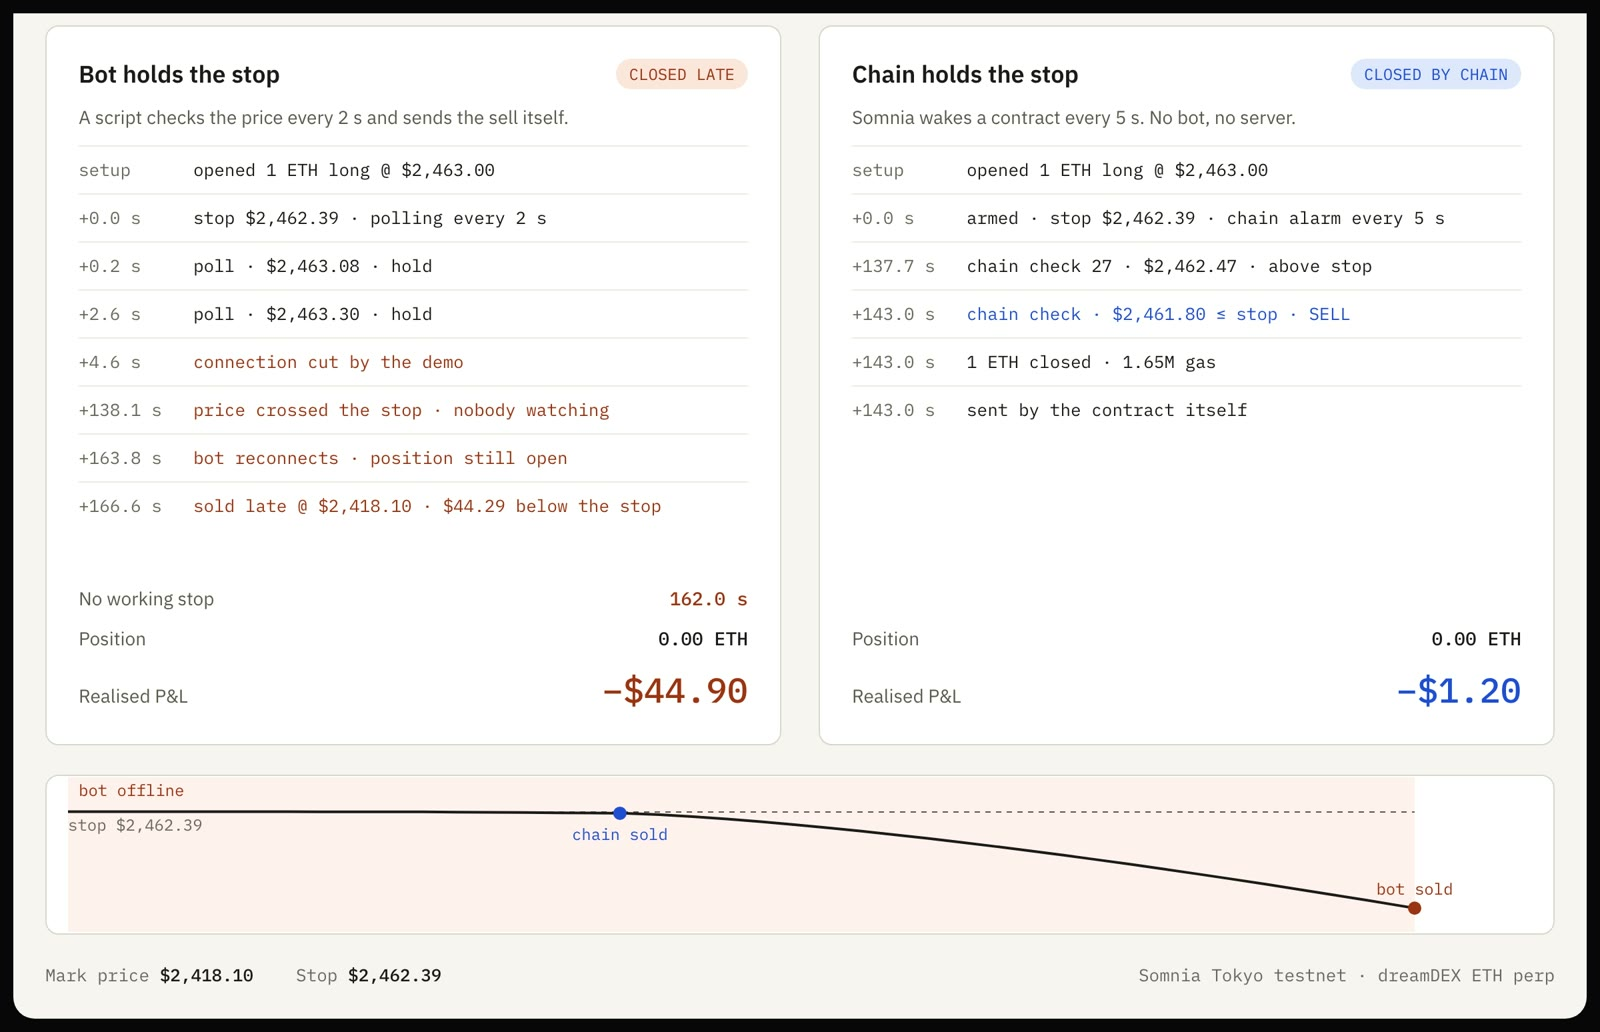
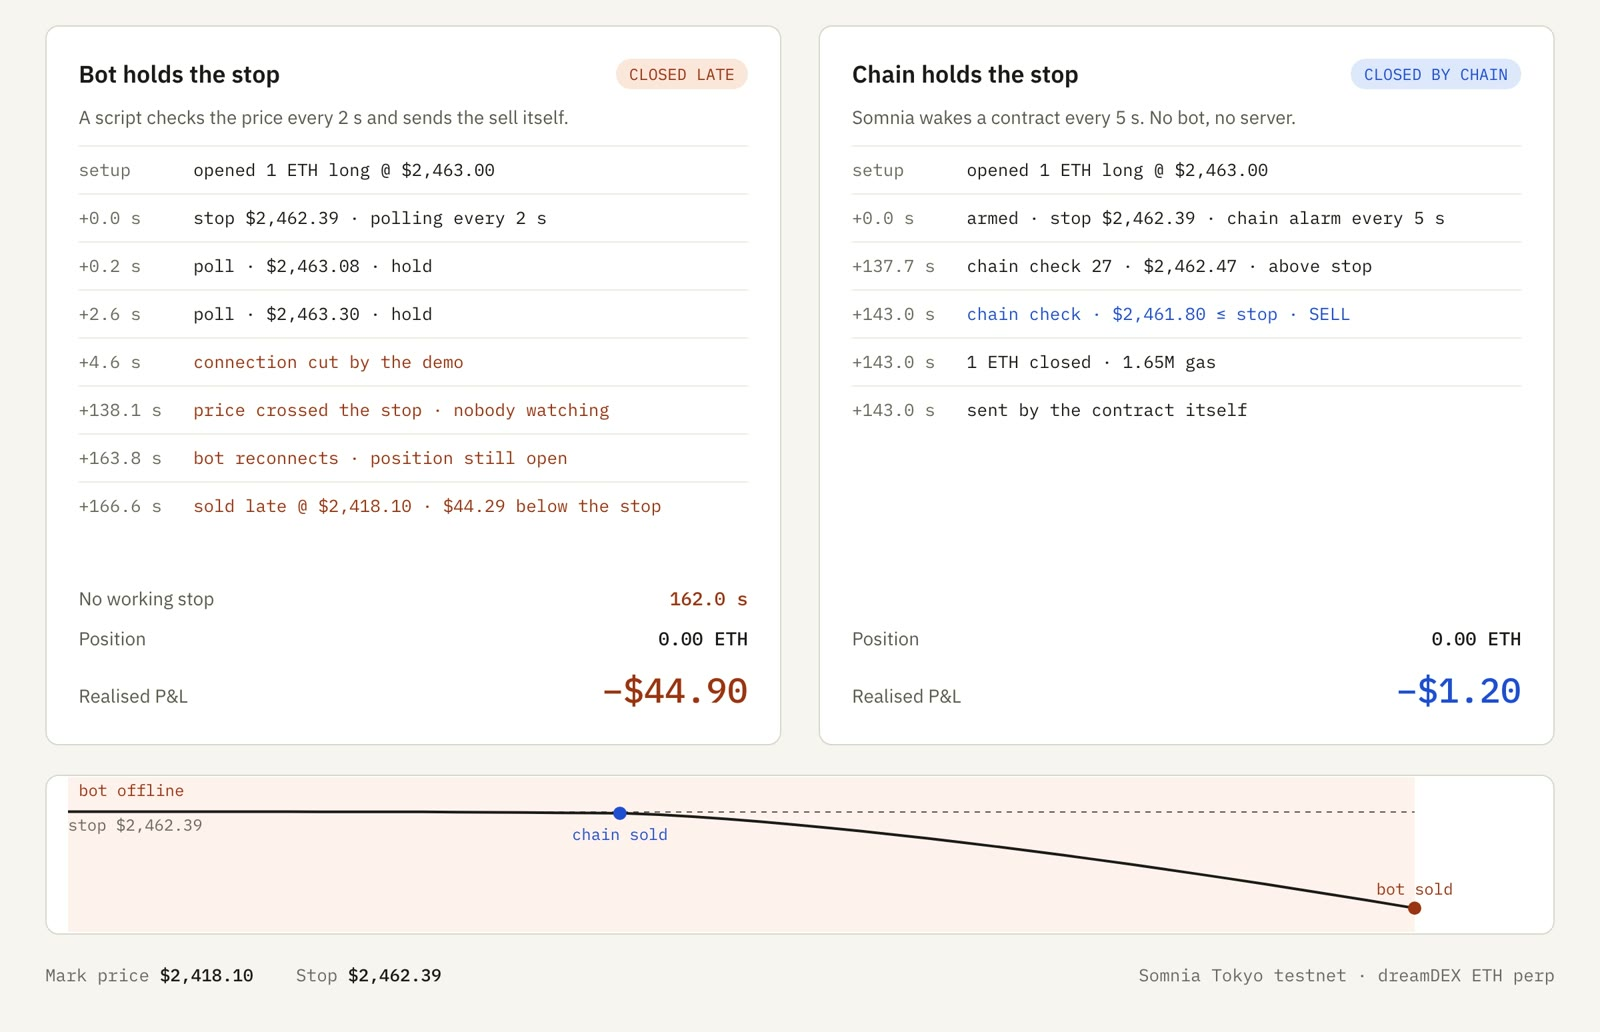
style(site): use the board's theme for the whole article
Paper and ink with IBM Plex, rust for the bot and blue for the chain,
the same tokens as the board and the film. The share card, favicon and
hero image background follow the same theme.

Changed region(s): [[0.0, 0.0, 1.0, 1.0]]

diff --git a/site/og.html b/site/og.html
@@ -3,25 +3,22 @@
 <head>
 <meta charset="utf-8">
 <title>og card source</title>
+<link rel="stylesheet" href="https://fonts.googleapis.com/css2?family=IBM+Plex+Sans:wght@400;500;600&family=IBM+Plex+Mono:wght@400;500&display=swap">
 <style>
-  html,body{margin:0;background:#070707}
-  .card{width:1200px;height:630px;position:relative;overflow:hidden;background:#070707;color:#e8e8ec;
-        font-family:-apple-system,BlinkMacSystemFont,"Segoe UI",Roboto,Helvetica,Arial,sans-serif;padding:60px 68px;box-sizing:border-box}
-  .card::before{content:"";position:absolute;inset:0;background:
-     radial-gradient(620px 320px at 88% -5%, rgba(110,242,158,.14), transparent 60%),
-     repeating-linear-gradient(0deg, rgba(255,255,255,.022) 0 1px, transparent 1px 32px),
-     repeating-linear-gradient(90deg, rgba(255,255,255,.022) 0 1px, transparent 1px 32px)}
+  html,body{margin:0;background:#f6f5f1}
+  .card{width:1200px;height:630px;position:relative;overflow:hidden;background:#f6f5f1;color:#1b1b18;
+        font-family:'IBM Plex Sans',system-ui,sans-serif;padding:60px 68px;box-sizing:border-box}
   .in{position:relative;height:100%;display:flex;flex-direction:column;justify-content:space-between}
-  .eyebrow{font-size:19px;color:#9a9aa6;letter-spacing:.05em;text-transform:uppercase}
-  h1{font-size:58px;line-height:1.08;margin:16px 0 0;letter-spacing:-.015em;max-width:1010px}
-  h1 em{font-style:normal;color:#6ef29e}
+  .eyebrow{font-family:'IBM Plex Mono',monospace;font-size:18px;color:#6b685e;letter-spacing:.05em;text-transform:uppercase}
+  h1{font-size:58px;font-weight:600;line-height:1.08;margin:16px 0 0;letter-spacing:-.015em;max-width:1010px}
+  h1 em{font-style:normal;color:#1f4fd1}
   .row{display:flex;gap:14px}
-  .stat{flex:1;background:#0d0d12;border:1px solid #232329;border-radius:12px;padding:16px 20px}
-  .stat b{display:block;font-family:ui-monospace,SFMono-Regular,Menlo,Consolas,monospace;font-size:34px;margin-bottom:4px}
-  .stat.g b{color:#6ef29e} .stat.r b{color:#ff8f8f}
-  .stat span{color:#9a9aa6;font-size:16px}
-  .foot{display:flex;justify-content:space-between;align-items:flex-end;color:#6b6b76;font-size:20px}
-  .foot b{color:#8b8bff;font-weight:600}
+  .stat{flex:1;background:#fff;border:1px solid #d9d6cc;border-radius:10px;padding:16px 20px}
+  .stat b{display:block;font-family:'IBM Plex Mono',monospace;font-weight:500;font-size:34px;margin-bottom:4px}
+  .stat.chain b{color:#1f4fd1} .stat.bot b{color:#9a3412}
+  .stat span{color:#5c594f;font-size:16px}
+  .foot{display:flex;justify-content:space-between;align-items:flex-end;color:#6b685e;font-size:20px;border-top:1px solid #d9d6cc;padding-top:18px}
+  .foot b{color:#1b1b18;font-weight:600}
 </style>
 </head>
 <body>
@@ -31,9 +28,9 @@
     <h1>My bot held the stop-loss and went offline. <em>The chain sold by itself.</em></h1>
   </div>
   <div class="row">
-    <div class="stat r"><b>162 s</b><span>the bot's stop was down</span></div>
-    <div class="stat g"><b>5 s</b><span>the chain checks the stop</span></div>
-    <div class="stat g"><b>0</b><span>signatures on the chain's sale</span></div>
+    <div class="stat bot"><b>162 s</b><span>the bot's stop was down</span></div>
+    <div class="stat chain"><b>5 s</b><span>the chain checks the stop</span></div>
+    <div class="stat chain"><b>0</b><span>signatures on the chain's sale</span></div>
   </div>
   <div class="foot"><span>chain-stop.ironyaditya.xyz</span><span><b>@0xironyAditya</b></span></div>
 </div></div>

diff --git a/site/index.html b/site/index.html
@@ -7,7 +7,7 @@
 <meta name="description" content="Same long, same stop, two ways: a bot that polls the price, and a contract Somnia wakes every 5 seconds. I cut the bot's connection. The chain sold on its own; the bot had no working stop for 162 seconds.">
 <meta name="author" content="Aditya Srivastava (@0xironyAditya)">
 <meta name="robots" content="index, follow">
-<meta name="theme-color" content="#070707">
+<meta name="theme-color" content="#f6f5f1">
 <link rel="canonical" href="https://chain-stop.ironyaditya.xyz/">
 <link rel="icon" href="/favicon.svg" type="image/svg+xml">
 
@@ -46,15 +46,18 @@
   "mainEntityOfPage": "https://chain-stop.ironyaditya.xyz/"
 }
 </script>
+<link rel="preconnect" href="https://fonts.googleapis.com">
+<link rel="stylesheet" href="https://fonts.googleapis.com/css2?family=IBM+Plex+Sans:wght@400;500;600&family=IBM+Plex+Mono:wght@400;500&display=swap">
 <style>
+  /* The board's theme ("Incident log"): paper and ink, rust for the bot, blue for the chain. */
   :root{
-    --bg:#070707; --panel:#0d0d12; --line:#232329; --text:#e8e8ec; --muted:#9a9aa6; --dim:#6b6b76;
-    --good:#6ef29e; --bad:#ff8f8f; --accent:#8b8bff; --warn:#cc5a3a;
-    --mono:ui-monospace,SFMono-Regular,Menlo,Consolas,monospace;
+    --bg:#f6f5f1; --panel:#ffffff; --line:#d9d6cc; --text:#1b1b18; --muted:#5c594f; --dim:#6b685e;
+    --good:#1f4fd1; --good-bg:#dde7fb; --bad:#9a3412; --bad-bg:#fbe6dc; --accent:#1f4fd1; --warn:#9a3412;
+    --mono:'IBM Plex Mono',ui-monospace,SFMono-Regular,Menlo,monospace;
   }
   *{box-sizing:border-box}
-  html{color-scheme:dark}
-  body{margin:0;background:var(--bg);color:var(--text);font:15px/1.55 -apple-system,BlinkMacSystemFont,"Segoe UI",Roboto,Helvetica,Arial,sans-serif;padding:0 16px env(safe-area-inset-bottom,0)}
+  html{color-scheme:light}
+  body{margin:0;background:var(--bg);color:var(--text);font:15px/1.6 'IBM Plex Sans',system-ui,sans-serif;-webkit-font-smoothing:antialiased;padding:0 16px env(safe-area-inset-bottom,0)}
   main{max-width:920px;margin:0 auto;padding:48px 0 80px}
   h1{font-size:clamp(26px,4.5vw,38px);line-height:1.15;margin:0 0 10px;letter-spacing:-.01em}
   h1 em{font-style:normal;color:var(--good)}
@@ -74,10 +77,10 @@
   th{color:var(--muted);font-weight:600;font-size:12px;text-transform:uppercase;letter-spacing:.05em}
   tr:last-child td{border-bottom:0}
   td.n,th.n{text-align:right;font-family:var(--mono)}
-  tr.somnia td{background:rgba(110,242,158,.06)}
+  tr.somnia td{background:var(--good-bg)}
   tr.somnia td:first-child{color:var(--good);font-weight:600}
   .g{color:var(--good);font-weight:600} .w{color:var(--warn)} .b{color:var(--bad)} .m{color:var(--muted)}
-  code{font-family:var(--mono);font-size:.92em;background:#17171d;padding:1px 5px;border-radius:4px;overflow-wrap:anywhere}
+  code{font-family:var(--mono);font-size:.92em;background:#ece9e0;padding:1px 5px;border-radius:4px;overflow-wrap:anywhere}
   pre{font-family:var(--mono);font-size:13px;background:var(--panel);border:1px solid var(--line);border-radius:8px;padding:14px 16px;overflow-x:auto;line-height:1.5}
   ul{padding-left:20px;margin:0 0 12px} li{margin:5px 0;max-width:72ch}
   .grid{display:grid;grid-template-columns:repeat(auto-fit,minmax(200px,1fr));gap:12px;margin:18px 0}
